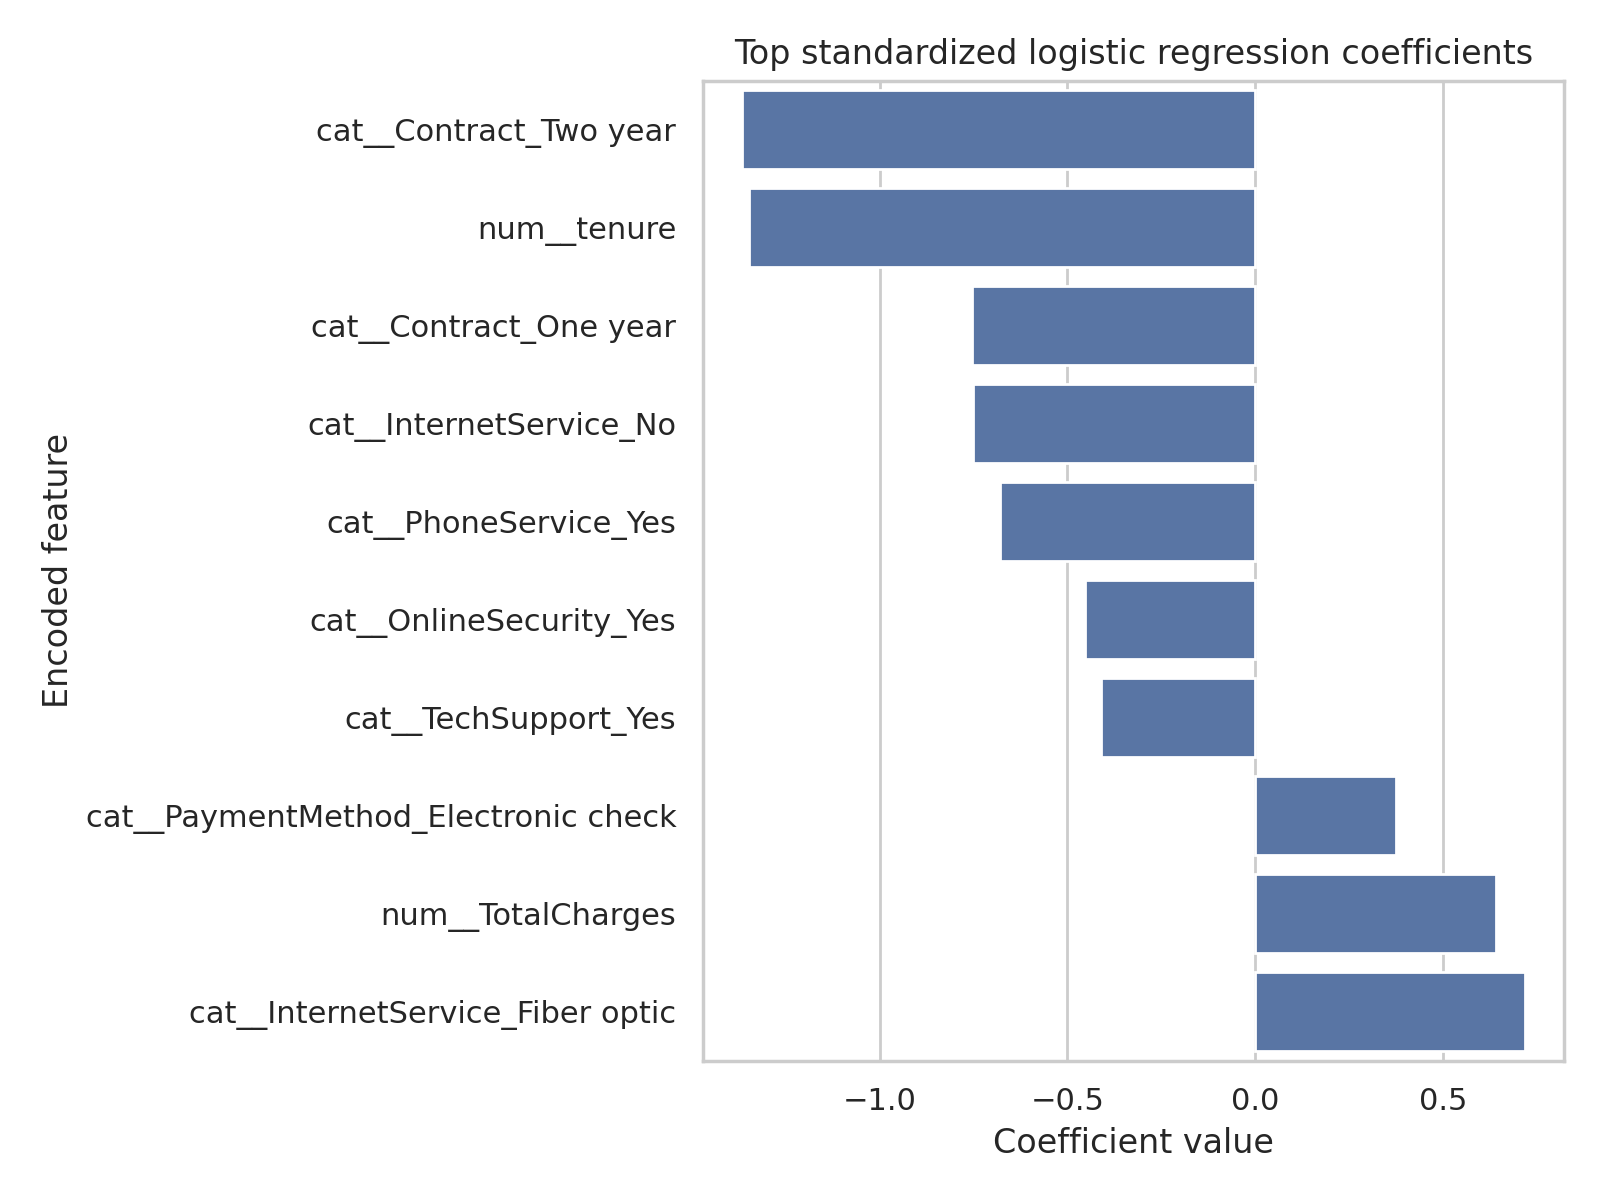
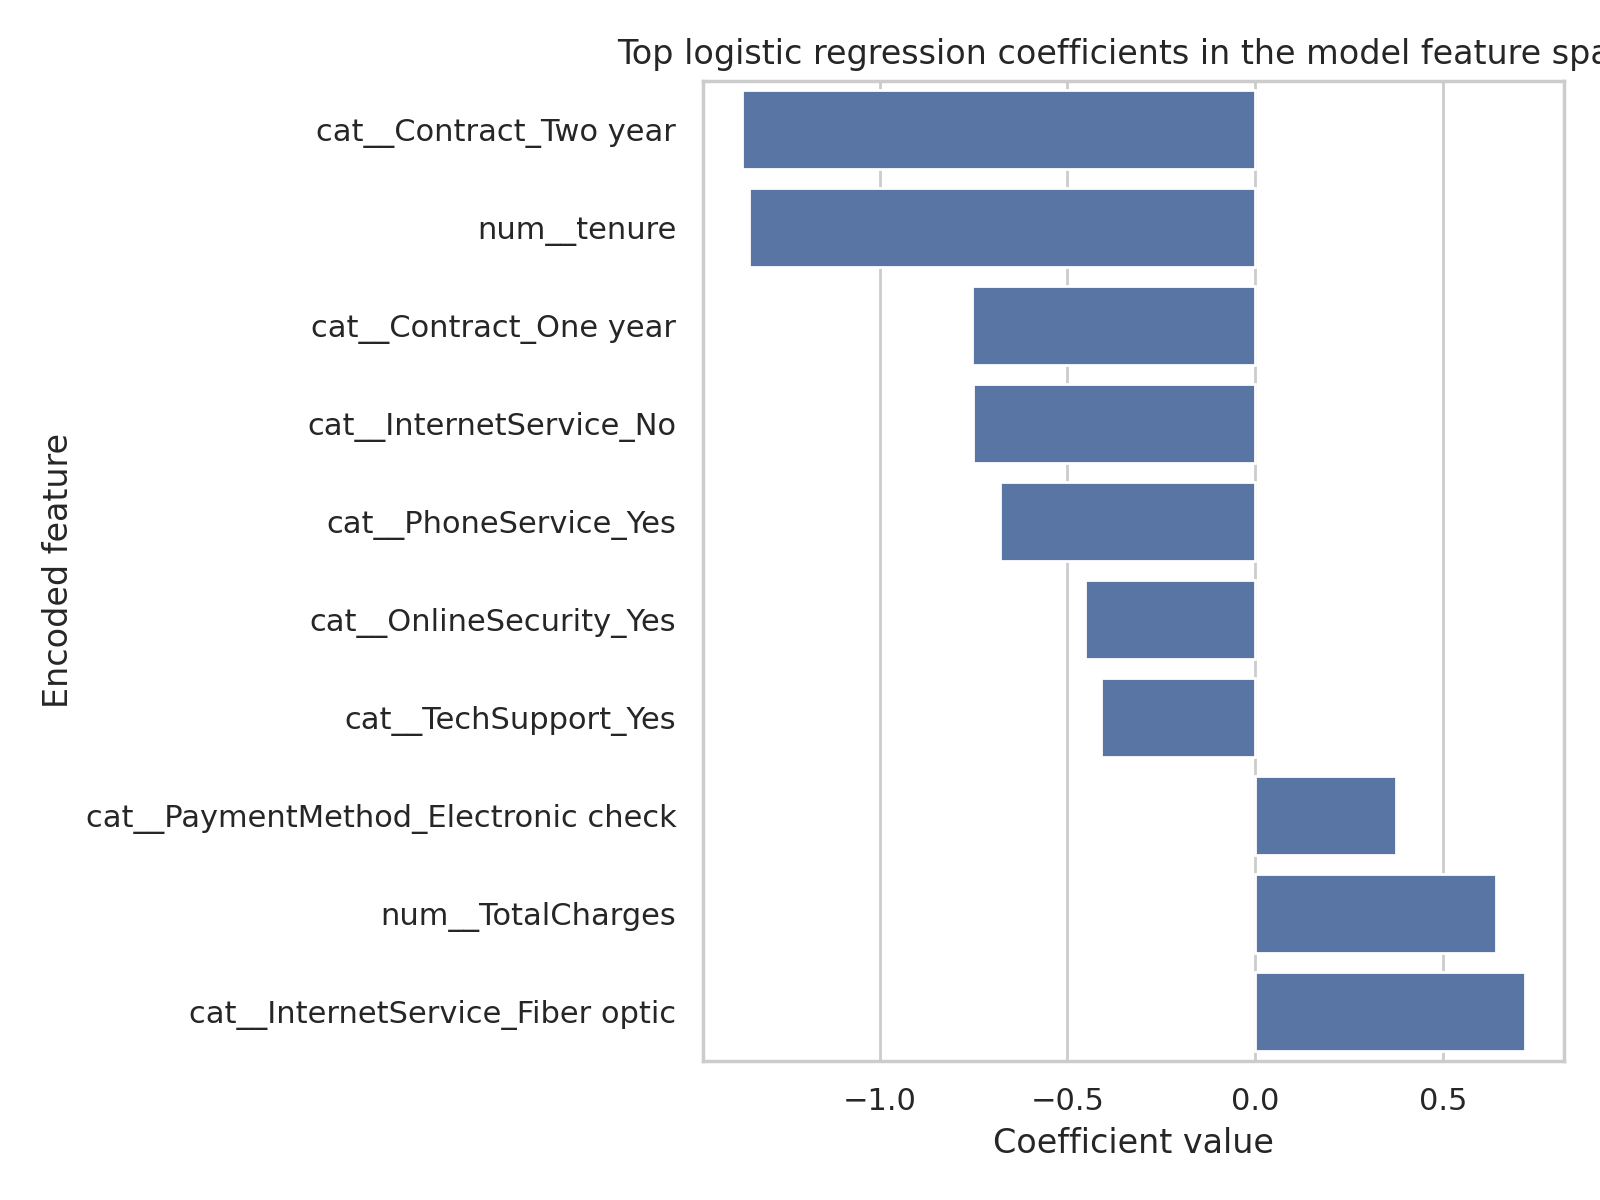
fix: align churn coefficients and reporting

Changed region(s): [[0.375, 0.0308, 1.0, 0.0617]]

diff --git a/analysis_run.py b/analysis_run.py
@@ -114,6 +114,7 @@ def format_p_value(value: float) -> str:
 
 
 def prettify_feature_name(feature: str) -> str:
+    feature = feature.replace('num__', '').replace('cat__', '')
     return feature.replace('_', ' = ', 1).replace('_', ' ')
 
 
@@ -244,7 +245,7 @@ def fit_models(df: pd.DataFrame) -> dict[str, object]:
                 ColumnTransformer(
                     transformers=[
                         ('num', StandardScaler(), numeric_columns),
-                        ('cat', OneHotEncoder(drop='first', handle_unknown='ignore'), categorical_columns),
+                        ('cat', OneHotEncoder(drop='first', handle_unknown='ignore', sparse_output=False), categorical_columns),
                     ]
                 ),
             ),
@@ -268,7 +269,11 @@ def fit_models(df: pd.DataFrame) -> dict[str, object]:
     feature_names = pipeline.named_steps['preprocess'].get_feature_names_out()
     coefficients = pd.Series(pipeline.named_steps['model'].coef_[0], index=feature_names)
 
-    statsmodels_X_train = pd.get_dummies(X_train, drop_first=True, dtype=float)
+    statsmodels_X_train = pd.DataFrame(
+        pipeline.named_steps['preprocess'].transform(X_train),
+        columns=feature_names,
+        index=X_train.index,
+    )
     statsmodels_X_train = sm.add_constant(statsmodels_X_train)
     statsmodels_model = sm.Logit(y_train, statsmodels_X_train).fit(disp=False, maxiter=200)
     summary_frame = statsmodels_model.summary2().tables[1].copy()
@@ -337,7 +342,7 @@ def plot_model_outputs(results: dict[str, object]) -> None:
     top_coefficients = coefficients.reindex(coefficients.abs().sort_values(ascending=False).head(10).index).sort_values()
     fig, ax = plt.subplots(figsize=(8, 6))
     sns.barplot(x=top_coefficients.values, y=top_coefficients.index, orient='h', ax=ax)
-    ax.set_title('Top standardized logistic regression coefficients')
+    ax.set_title('Top logistic regression coefficients in the model feature space')
     ax.set_xlabel('Coefficient value')
     ax.set_ylabel('Encoded feature')
     fig.tight_layout()
@@ -500,14 +505,14 @@ The univariate review shows a mix of numeric and categorical predictors:
 2. Standardized numeric predictors (`tenure`, `MonthlyCharges`, `TotalCharges`) for the predictive model.
 3. One-hot encoded all categorical predictors with the first level dropped as the reference category.
 4. Fit a scikit-learn logistic regression model for predictive evaluation.
-5. Fit a second statsmodels logistic regression on the training partition to estimate coefficient significance, odds ratios, and confidence intervals without using holdout labels in the inferential summary.
-6. Evaluated out-of-sample classification performance with accuracy, precision, recall, F1 score, and ROC AUC.
+5. Reused the same transformed training design matrix in statsmodels to estimate coefficient significance, odds ratios, and confidence intervals without using holdout labels in the inferential summary.
+6. Evaluated out-of-sample classification performance with accuracy, precision, recall, and F1 score at the default **0.50 probability threshold**, and summarized ranking performance with ROC AUC.
 
 ### 6. Findings and model accuracy
 #### Predictive performance on the holdout test set
 {markdown_table(['Metric', 'Value'], metrics_rows)}
 
-The model achieves **{metrics['accuracy']:.1%} accuracy** and an **ROC AUC of {metrics['roc_auc']:.3f}**, which indicates good discrimination for a business churn screen. Precision and recall are both moderate, which is expected because churn is the minority class and some false positives are acceptable in retention campaigns.
+The model achieves **{metrics['accuracy']:.1%} accuracy** and an **ROC AUC of {metrics['roc_auc']:.3f}**, which indicates good discrimination for a business churn screen. Precision and recall are both moderate at the default **0.50 classification threshold**, which is expected because churn is the minority class and some false positives are acceptable in retention campaigns.
 
 #### Most statistically significant predictors
 {markdown_table(['Feature', 'Coefficient', 'Odds ratio', 'p-value', 'Effect on churn odds'], significant_rows)}

diff --git a/reports/logistic_regression_analysis_report.md b/reports/logistic_regression_analysis_report.md
@@ -91,8 +91,8 @@ The univariate review shows a mix of numeric and categorical predictors:
 2. Standardized numeric predictors (`tenure`, `MonthlyCharges`, `TotalCharges`) for the predictive model.
 3. One-hot encoded all categorical predictors with the first level dropped as the reference category.
 4. Fit a scikit-learn logistic regression model for predictive evaluation.
-5. Fit a second statsmodels logistic regression on the training partition to estimate coefficient significance, odds ratios, and confidence intervals without using holdout labels in the inferential summary.
-6. Evaluated out-of-sample classification performance with accuracy, precision, recall, F1 score, and ROC AUC.
+5. Reused the same transformed training design matrix in statsmodels to estimate coefficient significance, odds ratios, and confidence intervals without using holdout labels in the inferential summary.
+6. Evaluated out-of-sample classification performance with accuracy, precision, recall, and F1 score at the default **0.50 probability threshold**, and summarized ranking performance with ROC AUC.
 
 ### 6. Findings and model accuracy
 #### Predictive performance on the holdout test set
@@ -104,15 +104,15 @@ The univariate review shows a mix of numeric and categorical predictors:
 | F1 score | 0.607 |
 | ROC AUC | 0.836 |
 
-The model achieves **80.4% accuracy** and an **ROC AUC of 0.836**, which indicates good discrimination for a business churn screen. Precision and recall are both moderate, which is expected because churn is the minority class and some false positives are acceptable in retention campaigns.
+The model achieves **80.4% accuracy** and an **ROC AUC of 0.836**, which indicates good discrimination for a business churn screen. Precision and recall are both moderate at the default **0.50 classification threshold**, which is expected because churn is the minority class and some false positives are acceptable in retention campaigns.
 
 #### Most statistically significant predictors
 | Feature | Coefficient | Odds ratio | p-value | Effect on churn odds |
 | --- | --- | --- | --- | --- |
-| tenure | -0.058 | 0.9441 | <0.0001 | lower |
+| tenure | -1.413 | 0.2435 | <0.0001 | lower |
 | Contract = Two year | -1.415 | 0.2428 | <0.0001 | lower |
 | Contract = One year | -0.762 | 0.4667 | <0.0001 | lower |
-| TotalCharges | 0.000 | 1.0003 | <0.0001 | higher |
+| TotalCharges | 0.706 | 2.0262 | <0.0001 | higher |
 | PaymentMethod = Electronic check | 0.386 | 1.4704 | 0.0003 | higher |
 | PaperlessBilling = Yes | 0.289 | 1.3354 | 0.0005 | higher |
 | MultipleLines = Yes | 0.677 | 1.9689 | 0.0007 | higher |
